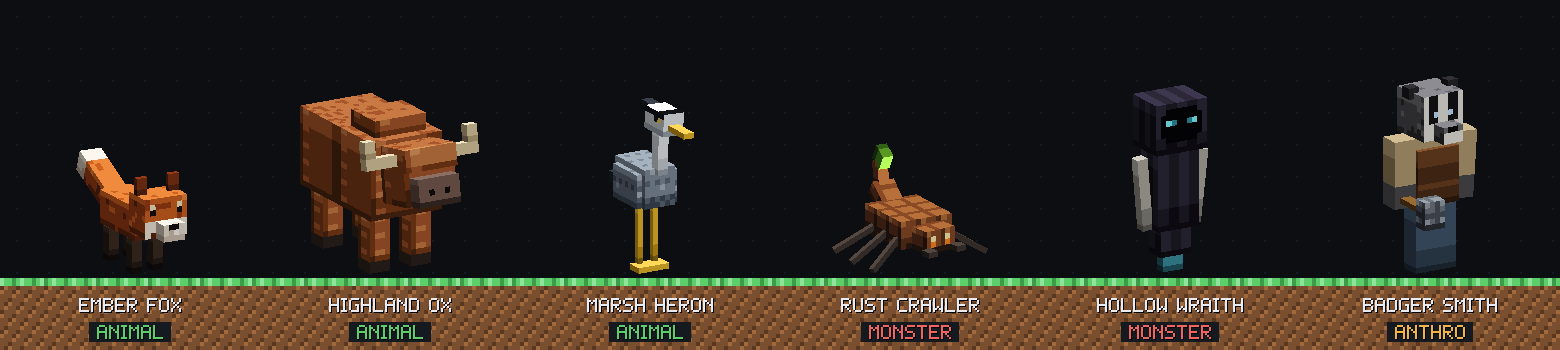
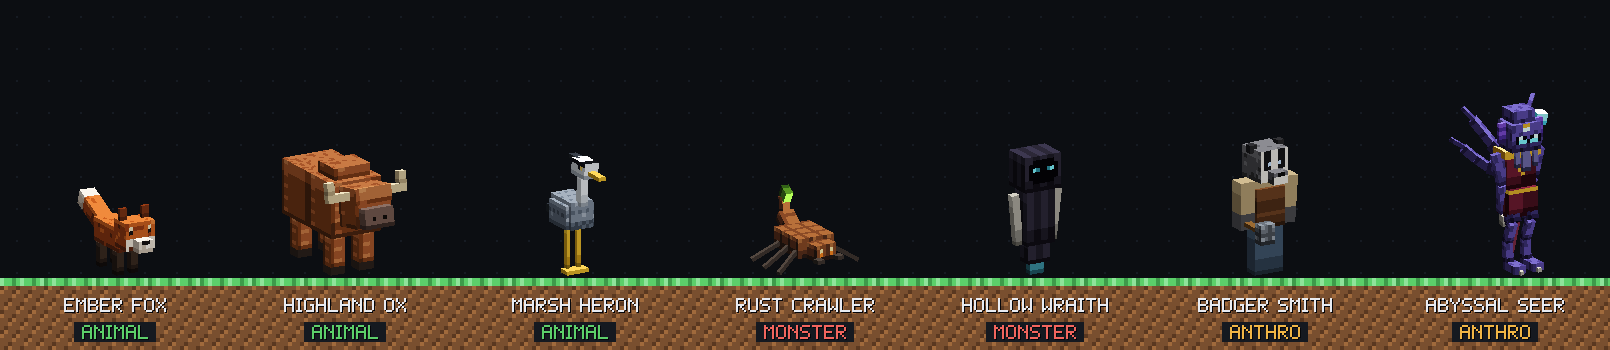
docs: showcase creatures, Seer and armory in READMEs; update skills and docs

Changed region(s): [[0.0, 0.2286, 1.0, 1.0], [0.7077, 0.2286, 0.8, 0.3714], [0.6154, 0.4, 0.6769, 0.4857]]

diff --git a/README.ru.md b/README.ru.md
@@ -8,7 +8,7 @@
 [![CI](https://img.shields.io/github/actions/workflow/status/ArabKustam/Plugin-Minecraft-studio/ci.yml?branch=main&style=flat-square&label=CI&color=5ccf6a)](https://github.com/ArabKustam/Plugin-Minecraft-studio/actions/workflows/ci.yml)
 [![Плагин Claude Code](https://img.shields.io/badge/Claude%20Code-плагин-d9b42a?style=flat-square)](.claude-plugin/plugin.json)
 [![Minecraft](https://img.shields.io/badge/Minecraft-1.21.11%20·%2026.x-794f2f?style=flat-square)](docs/compatibility.md)
-[![MCP-инструменты](https://img.shields.io/badge/MCP--инструментов-85-3fb0c8?style=flat-square)](docs/mcp.md)
+[![MCP-инструменты](https://img.shields.io/badge/MCP--инструментов-86-3fb0c8?style=flat-square)](docs/mcp.md)
 [![Лицензия: MIT](https://img.shields.io/badge/лицензия-MIT-6c7683?style=flat-square)](LICENSE)
 
 </div>
@@ -167,15 +167,17 @@ claude
     "state":     [{ "t": 5.0, "state": "RUNNING" }] } }
 ```
 
-Все 85 инструментов описаны в [docs/mcp.md](docs/mcp.md), форматы файлов — в виде [JSON Schema](schemas/).
+Все 86 инструментов описаны в [docs/mcp.md](docs/mcp.md), форматы файлов — в виде [JSON Schema](schemas/).
 
 ## Примеры
 
-### 🐾 [Набор существ](examples/creatures): 3 животных, 2 монстра, 1 антропоморфный персонаж
+### 🐾 [Набор существ](examples/creatures): 3 животных, 2 монстра, 2 антропоморфных персонажа
 
 <img src="docs/images/readme/creatures-lineup-ru.png" alt="Огненный лис, горный бык, болотная цапля, ржавый ползун, полый призрак и барсук-кузнец в одном масштабе" width="100%">
 
-<div align="center"><img src="docs/images/readme/creatures-walk-ru.gif" alt="Циклы ходьбы всех шести существ" width="720"></div>
+<div align="center"><img src="docs/images/readme/creatures-walk-ru.gif" alt="Циклы ходьбы всех семи существ и заклинание провидца" width="860"></div>
+
+<div align="center"><img src="docs/images/readme/seer-ru.gif" alt="Бездонный провидец на поворотном столе" width="720"><br><sub>Бездонный провидец — антропоморфный, но не похожий на игрока: пальцеходящие ноги, четыре сегментированных щупальца из спины, которые движутся волной, длинные руки с когтями, коралловый посох и мантия.</sub></div>
 
 | Существо | Тип | Риг и анимации | Звуки |
 |---|---|---|---|
@@ -185,16 +187,34 @@ claude
 | **Ржавый ползун** | монстр | шестиногий скорпион из металлолома · походка «треногой», удар жалом | стрекот, шипение, жало |
 | **Полый призрак** | монстр | парящий дух в капюшоне · парение, дрейф, вопль | шёпот, стон, вопль |
 | **Барсук-кузнец** | антропоморфный | барсук-гуманоид с молотом · шаг, удар молотом, работа у наковальни | звон наковальни, кряхтение, удар |
+| **Бездонный провидец** | антропоморфный | пальцеходящие ноги, 4 щупальца по 4 сегмента, длинные руки с когтями, посох, мантия · волна щупалец, пальцеходящая походка, заклинание посохом | напев и пузыри, боль, заклинание |
 
 Что есть у каждого существа:
 
-- атлас текстур 64×64, нарисованный инструментом `texture_paint_uv`;
+- атлас текстур, нарисованный инструментом `texture_paint_uv`;
 - геометрия и анимации Bedrock;
 - клиентская и поведенческая сущности с яйцом призыва;
 - 3 звука;
 - проект `.bbmodel` для Blockbench.
 
 Всё упаковано в `studio-creatures.mcaddon`. Аддон проходит Bedrock-валидатор студии, но в клиенте Bedrock пока не запускался. Описание существ — в [руководстве](examples/creatures/docs/creatures.md) (на английском).
+
+### ⚔ [Арсенал и сад](examples/armory): оружие, инструменты, луки, посохи, фрукты, броня и одежда
+
+<img src="docs/images/readme/armory-sheet-ru.png" alt="Лист в стиле инвентаря: 4 меча, 4 инструмента, 2 лука по 3 стадии натяжения, 2 посоха, 6 фруктов, 8 предметов брони и одежды" width="100%">
+
+<div align="center"><img src="docs/images/readme/armory-animated-ru.gif" alt="Натяжение луков и анимированные кристаллы посохов" width="860"></div>
+
+<div align="center"><img src="docs/images/readme/armory-wearables-ru.gif" alt="Вращающиеся манекены в одежде следопыта и рыцарских латах" width="860"></div>
+
+Это ресурспак для Java 1.21.11. Модов не нужно: обычные ванильные предметы получают новый вид через компоненты `item_model` и `equippable`.
+
+- **Оружие, инструменты и фрукты** — 32 иконки. Каждая нарисована как силуэт, размеченный по частям, а затем `texture_shade_item` добавляет свет, тени на кромках, блеск металла, текстуру дерева, свечение камней и цветной контур.
+- **Луки** — у каждого 3 стадии натяжения и item definition, который выбирает стадию так же, как у ванильного лука.
+- **Посохи** — кристаллы пульсируют через `.mcmeta`.
+- **Одежда и броня** — два комплекта, *одежда следопыта* и *рыцарские латы*. Они нарисованы на ванильных раскладках `humanoid` и `humanoid_leggings` и показаны на манекене. Там, где броня не закрывает тело, текстура прозрачная, и тело видно.
+
+Пак проходит валидатор ресурспаков студии, но в клиенте Minecraft ещё не запускался. В [руководстве](examples/armory/docs/armory.md) (на английском) для каждого предмета есть команда `/give`.
 
 ### 🧪 Industrial Reactor
 

diff --git a/README.md b/README.md
@@ -8,7 +8,7 @@
 [![CI](https://img.shields.io/github/actions/workflow/status/ArabKustam/Plugin-Minecraft-studio/ci.yml?branch=main&style=flat-square&label=CI&color=5ccf6a)](https://github.com/ArabKustam/Plugin-Minecraft-studio/actions/workflows/ci.yml)
 [![Claude Code plugin](https://img.shields.io/badge/Claude%20Code-plugin-d9b42a?style=flat-square)](.claude-plugin/plugin.json)
 [![Minecraft](https://img.shields.io/badge/Minecraft-1.21.11%20·%2026.x-794f2f?style=flat-square)](docs/compatibility.md)
-[![MCP tools](https://img.shields.io/badge/MCP%20tools-85-3fb0c8?style=flat-square)](docs/mcp.md)
+[![MCP tools](https://img.shields.io/badge/MCP%20tools-86-3fb0c8?style=flat-square)](docs/mcp.md)
 [![License: MIT](https://img.shields.io/badge/license-MIT-6c7683?style=flat-square)](LICENSE)
 
 </div>
@@ -62,7 +62,7 @@ An asset is **approved** only after a passing QA record for its current version.
 
 ## Examples
 
-Both examples are full productions made with the plugin's own tools. Each can be replayed with `node studio/produce.mjs --fresh`.
+All three examples are full productions made with the plugin's own tools. Each can be replayed with `node studio/produce.mjs --fresh`.
 
 ### 🧪 [Industrial Reactor](examples/industrial-reactor): Paper 1.21.11 plugin
 
@@ -74,11 +74,13 @@ The plugin has 52 classes and 81 unit tests. It implements a reactor state machi
 - 2 adaptive music cues
 - 5 Russian PA announcements
 
-### 🐾 [Creature Pack](examples/creatures): 3 animals, 2 monsters, 1 anthropomorphic NPC
+### 🐾 [Creature Pack](examples/creatures): 3 animals, 2 monsters, 2 anthropomorphic characters
 
-<img src="docs/images/readme/creatures-lineup-en.png" alt="Ember Fox, Highland Ox, Marsh Heron, Rust Crawler, Hollow Wraith and Badger Smith at the same scale" width="100%">
+<img src="docs/images/readme/creatures-lineup-en.png" alt="Ember Fox, Highland Ox, Marsh Heron, Rust Crawler, Hollow Wraith, Badger Smith and Abyssal Seer at the same scale" width="100%">
 
-<div align="center"><img src="docs/images/readme/creatures-walk-en.gif" alt="Walk cycles of all six creatures" width="720"></div>
+<div align="center"><img src="docs/images/readme/creatures-walk-en.gif" alt="Walk cycles of all seven creatures and the Seer casting" width="860"></div>
+
+<div align="center"><img src="docs/images/readme/seer-en.gif" alt="Abyssal Seer turntable: digitigrade legs, four segmented back tentacles waving, long clawed arms, coral staff and robe" width="720"><br><sub>The Abyssal Seer is anthropomorphic without being player-shaped: digitigrade legs, four segmented back tentacles moving in a wave, long clawed arms, a coral staff and a robe.</sub></div>
 
 | Creature | Type | Rig and animations | Sounds |
 |---|---|---|---|
@@ -88,16 +90,34 @@ The plugin has 52 classes and 81 unit tests. It implements a reactor state machi
 | **Rust Crawler** | monster | six-legged scrap scorpion · tripod gait, tail sting | chitter, hiss, sting |
 | **Hollow Wraith** | monster | hovering hooded spirit · hover, drift, shriek | whisper, wail, shriek |
 | **Badger Smith** | anthropomorphic | humanoid badger with a hammer · walk, hammer strike, forge loop | anvil clang, grunt, impact |
+| **Abyssal Seer** | anthropomorphic | digitigrade legs, 4×4-segment back tentacles, long clawed arms, staff, robe · tentacle wave, digitigrade walk, staff cast | chant & bubbles, hurt, cast |
 
 Each creature includes:
 
-- a UV-painted 64×64 atlas (`texture_paint_uv`)
+- a UV-painted atlas (`texture_paint_uv`)
 - Bedrock geometry and animations
 - client and behavior entities with spawn eggs
 - 3 sounds
 - a Blockbench `.bbmodel`
 
 All of it is packaged as `studio-creatures.mcaddon`, which passes the studio's Bedrock validator. The pack has not been run in a Bedrock client yet. Field guide: [examples/creatures/docs/creatures.md](examples/creatures/docs/creatures.md).
+
+### ⚔ [Armory & Orchard](examples/armory): weapons, tools, bows, staffs, fruit, armour and clothing
+
+<img src="docs/images/readme/armory-sheet-en.png" alt="Inventory-style sheet: 4 swords, 4 tools, 2 bows with 3 draw stages each, 2 staffs, 6 fruits, 8 armour and clothing pieces" width="100%">
+
+<div align="center"><img src="docs/images/readme/armory-animated-en.gif" alt="Bows drawing through three stages and staffs with animated crystals" width="860"></div>
+
+<div align="center"><img src="docs/images/readme/armory-wearables-en.gif" alt="Rotating mannequins wearing the ranger clothing and the knight plate armour" width="860"></div>
+
+This is a Java 1.21.11 resource pack. Vanilla items are reskinned through the `item_model` and `equippable` components, so it needs no mods.
+
+- **Weapons, tools and fruit.** 32 icons drawn as part-labelled silhouettes, then shaded by `texture_shade_item`. It adds light, rim shading, metal shine, wood grain, glowing gems and coloured outlines.
+- **Bows.** Each bow has 3 draw stages and an item definition that picks the stage the same way vanilla bows do.
+- **Staffs.** The crystals pulse through `.mcmeta` animations.
+- **Wearables.** Both sets, the *ranger clothing* and the *knight plate*, are painted onto the vanilla `humanoid` and `humanoid_leggings` layouts and shown on a mannequin. Areas the armour doesn't cover are transparent, so the body shows through.
+
+The pack passes the studio's resource-pack validator. It has not been loaded in a Minecraft client yet. The [guide](examples/armory/docs/armory.md) lists a `/give` command for every item.
 
 ## How it works
 
@@ -206,7 +226,7 @@ A timeline keeps every medium in sync. The game code runs the compiled list of t
     "state":     [{ "t": 5.0, "state": "RUNNING" }] } }
 ```
 
-All 85 tools are listed in [docs/mcp.md](docs/mcp.md). The file formats are published as [JSON Schemas](schemas/).
+All 86 tools are listed in [docs/mcp.md](docs/mcp.md). The file formats are published as [JSON Schemas](schemas/).
 
 ## FAQ
 

diff --git a/CHANGELOG.md b/CHANGELOG.md
@@ -5,10 +5,29 @@ All notable changes to Minecraft Studio are documented here. The format follows 
 ## [Unreleased]
 
 ### Added
+- **Abyssal Seer.** A non-humanoid anthropomorphic creature with:
+  - digitigrade legs (thigh → shin → raised hock → toes, placed with forward kinematics)
+  - four 4-segment back tentacles with wave animation
+  - long clawed arms, a coral staff and a robe with belt
+  - idle, digitigrade walk and cast animations
+  - 3 sounds
+- **Armory & Orchard example** (`examples/armory`), a Java 1.21.11 resource pack:
+  - 4 swords and a 4-piece tool set
+  - 2 bows, each with 3 draw stages and a `condition`/`range_dispatch` item definition
+  - 2 animated staffs and 6 fruits
+  - 2 wearable sets, ranger clothing and knight plate: icons, worn `humanoid`/`humanoid_leggings` textures and equipment assets, previewed on a mannequin
+  - `/give` commands for every item
+- `texture_shade_item`: an item shader that turns part-labelled silhouettes into lit, outlined pixel art, with material styles and animation frames.
+- Resource-pack validation now checks equipment layer textures.
+- `item-spec` JSON Schema. README artwork for the new examples: inventory-style item sheet, bow and staff animation, rotating mannequins and a Seer showcase.
+
 - **Creature Pack example** (`examples/creatures`). Six rigged, textured, animated and voiced creatures: 3 animals (Ember Fox, Highland Ox, Marsh Heron), 2 monsters (Rust Crawler, Hollow Wraith) and 1 anthropomorphic NPC (Badger Smith). Each ships with idle, walk and attack animations plus specials, and with ambient, hurt and attack sounds. Output: a Bedrock add-on (`.mcaddon`) and Blockbench projects.
 - `texture_paint_uv`: automatic box-UV packing and pixel-art atlas painting from materials (ramps, patterns) with per-face shading and hand-authored face overlays.
 - `mc_bedrock_validate` / `mc_bedrock_package`: checks Bedrock add-on manifests, entity, geometry, texture, animation and sound references, and packages `.mcpack`/`.mcaddon` files.
 - `paint-spec` JSON Schema. Creature lineup and walk-cycle artwork in both READMEs.
+
+### Fixed
+- Texture validation no longer treats non-square entity atlases (e.g. 64×128) as animation strips.
 
 ## [0.1.0] — 2026-10-07
 

diff --git a/skills/minecraft-studio/references/texture-production.md b/skills/minecraft-studio/references/texture-production.md
@@ -57,6 +57,32 @@ Check the returned strip image: silhouettes and material must stay identical; on
 
 `texture_validate` (power-of-two, square/strip + mcmeta, palette size, isolated pixels), `texture_check_tiling` for blocks that repeat, `texture_style_compare` (score ≥ 75 to send to QA). Then hand to `visual-qa`.
 
+## Items: weapons, tools, bows, staffs, food, armour icons
+
+Use `texture_shade_item`. You draw a **part-labelled silhouette**, one character per pixel, where each character names a part: `e` edge, `b` blade, `g` guard, `h` grip, `o` gem, peel, leaf… Each part maps to a material with a dark → light `ramp` and a `style`:
+
+| Style | Effect |
+|---|---|
+| `metal` | shine streak |
+| `wood` | grain |
+| `leather` | grain |
+| `cloth` | soft shading |
+| `organic` | rounded fruit shading |
+| `glow` | radial highlight |
+| `gem` | radial highlight with a specular corner |
+| `bone` | — |
+| `flat` | no shading |
+
+The shader applies consistent top-left light, rim light and shadow, and coloured outlines (a material can opt out with `"outline": false`, e.g. bow strings). Put the eye-catching pixels in `details` (sparkles, seeds, emblems). For animation (staff crystals, glowing fruit), use `frames` together with `frametime`; the shader writes the `.mcmeta` for you.
+
+Proven recipes:
+- **Swords and tools:** diagonal from bottom-left to top-right; 2–3 px blades, guard perpendicular to the blade.
+- **Bows:** one standby texture plus 3 `_pulling_N` textures. The item definition switches between them with `condition` (`using_item`) and `range_dispatch` (`use_duration`).
+- **Armour icons:** follow the vanilla silhouettes.
+- **Worn armour and clothing:** paint onto the vanilla 64×32 `humanoid` and `humanoid_leggings` layouts with `texture_paint_uv` and `repack: false`, using `transparent` overlays for uncovered areas. Add `assets/<ns>/equipment/<set>.json`, then review the result on a mannequin. Outer layer inflate is 1.0, leggings 0.5.
+
+`examples/armory` covers 32 items and 2 wearable sets.
+
 ## Entity & creature atlases
 
 Mobs, NPCs and other box-UV models use `texture_paint_uv`. Drawing a 64×64 atlas character by character is impractical, so this tool does the layout and painting:

diff --git a/docs/mcp.md b/docs/mcp.md
@@ -5,7 +5,7 @@ Five stdio servers are declared in `.mcp.json`. They are bundled ES modules star
 | Server | Default capabilities | Tools |
 |---|---|---|
 | `studio-core` | read, write, execute | 38: project analyse/init/profile/update, config, asset create/update/get/list/set_status/revert, QA record, registry integrity, task plan/update/list/graph, memory add/recall, log/activity, timeline save/validate/list, git status/checkpoint/secret scan, agent define, tool scaffold/list/run/test, providers, usage, test record, doctor, dashboard start |
-| `studio-texture` | read, write | 12: render spec, from PNG, analyze, style profile, style compare, validate, tiling, palette pass, variants, concept reduce, preview, UV paint (creature/entity atlases) |
+| `studio-texture` | read, write | 13: render spec, from PNG, analyze, style profile, style compare, validate, tiling, palette pass, variants, concept reduce, preview, UV paint (creature/entity/equipment atlases), item shader |
 | `studio-model` | read, write | 7: validate, render, export, import Java, animation validate/render/save |
 | `studio-audio` | read, write, publish | 14: SFX presets/render/AI generate, analyze, audit, process, music render/AI generate, voice profile save/get, pronunciation add/preview, voice line, Minecraft export |
 | `studio-minecraft` | read, write, execute | 14: adapters, detect, build, test, test server, parse log, Java check, pack validate/package, sound event, item definition, pack formats, Bedrock add-on validate/package |

diff --git a/skills/texture-artist/SKILL.md b/skills/texture-artist/SKILL.md
@@ -15,6 +15,8 @@ Read first: `${CLAUDE_PLUGIN_ROOT}/skills/minecraft-studio/references/texture-pr
 6. **States** — `texture_variants` from the approved base; check the strip.
 7. **Hand off** — summary with files, asset ids, scores and the preview path for `visual-qa`. Never mark your own work approved.
 
+**Items (weapons, tools, bows, staffs, food, armour icons):** draw a part-labelled silhouette and run `texture_shade_item` (materials + styles, details, frames for animation).
+
 **Creatures/entities (box UV):** write a paint spec (materials with ramps + patterns, face overlays for eyes/markings) and run `texture_paint_uv {model_path, paint_path, output, asset}` — it packs the UVs and returns the atlas and a textured turnaround for review.
 
 Small precise changes ("less bright", "move the lamp one pixel") are spec edits or `texture_variants` ops on the source, producing a new version — never a from-scratch redo.

diff --git a/docs/textures.md b/docs/textures.md
@@ -37,6 +37,19 @@ The profile also records a shared palette and readable `traits`.
 - With fewer than 12 samples, the tolerance widens by √(12/n).
 - For cut-out textures such as items, outline darkness is informational only.
 
+## Item shader
+
+`texture_shade_item` ([schema](../schemas/item-spec.schema.json)) turns a part-labelled silhouette into a finished item. It adds:
+
+- top-left light and rim shading;
+- specular corners;
+- material styles: metal, wood, leather, cloth, organic, glow, gem, bone, flat;
+- coloured outlines;
+- detail pixels;
+- animation frames, with the matching `.mcmeta`.
+
+See `examples/armory`, which has swords, tools, bows with draw stages, animated staffs, fruits and armour icons.
+
 ## Validation & variants
 
 - `texture_validate`: power of two, square or strip with `.mcmeta`, expected resolution, semi-transparency, palette size, isolated-pixel noise.

diff --git a/skills/minecraft-studio/references/minecraft-code.md b/skills/minecraft-studio/references/minecraft-code.md
@@ -32,6 +32,15 @@
 
 `mc_build` → fix errors → `mc_test` (unit tests for pure logic) → `mc_test_server` smoke test (requires the user's EULA consent) with commands like `<plugin> selftest`. Iterate: detect → diagnose → fix → rebuild → retest. Record results (the tools store test runs for the dashboard).
 
+## Custom items & wearables (Java 1.21.4+)
+
+No mod is needed:
+- Reskin a vanilla item with `item_model="ns:id"`. Its definition lives in `assets/ns/items/id.json`.
+- Make an item wearable with `equippable={slot:"chest",asset_id:"ns:set"}` and an asset in `assets/ns/equipment/set.json`.
+- Make an item edible with the `food` / `consumable` components.
+
+Validate the pack with `mc_resourcepack_validate`, which also checks equipment layer textures.
+
 ## Bedrock add-ons
 
 - **Packs.**

diff --git a/docs/compatibility.md b/docs/compatibility.md
@@ -28,7 +28,7 @@ What has actually been tested is marked ✅ tested. Things that should work by d
 | Fabric | 🟡 | 🟡 Gradle (Loom) | — | ✅ resource pack side |
 | NeoForge / Forge | 🟡 | 🟡 Gradle | — | ✅ resource pack side |
 | Datapack | ✅ detect | — | — | 🟡 |
-| Java resource pack | ✅ | ✅ validate & package | — | ✅ |
+| Java resource pack | ✅ | ✅ validate & package | — | ✅ blocks, items, bows with pull states, animated items, equipment (worn armour); 🟡 not yet loaded in a 1.21.11 client |
 | Bedrock add-on | ✅ detect | — | — | ✅ add-on generation + static validation (Creature Pack); 🟡 not yet loaded in a Bedrock client |
 
 ## Minecraft versions
